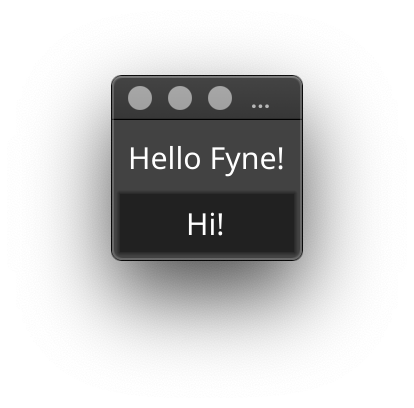
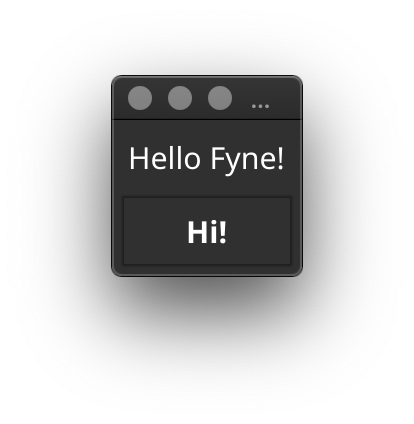
Update hello images

diff --git a/README.md b/README.md
@@ -90,9 +90,9 @@ It should look like this:
 <div align="center">
   <table cellpadding="0" cellspacing="0" style="margin: auto; border-collapse: collapse;">
     <tr style="border: none;"><td style="border: none;">
-      <img src="img/hello-light.png" width="207" height="204" alt="Fyne Hello Dark Theme" />
+      <img src="img/hello-light.png" width="207" height="212" alt="Fyne Hello Dark Theme" />
     </td><td style="border: none;">
-      <img src="img/hello-dark.png" width="207" height="204" alt="Fyne Hello Dark Theme" />
+      <img src="img/hello-dark.png" width="207" height="212" alt="Fyne Hello Dark Theme" />
     </td></tr>
   </table>
 </div>
